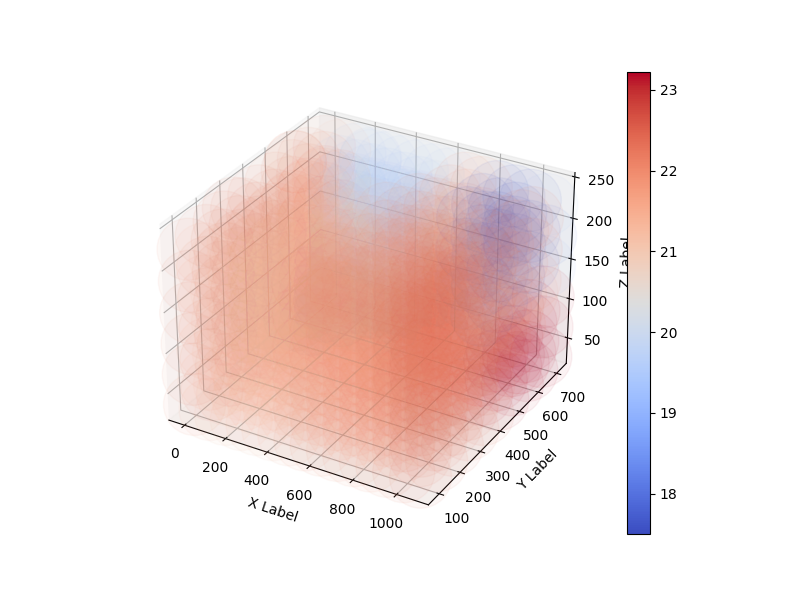
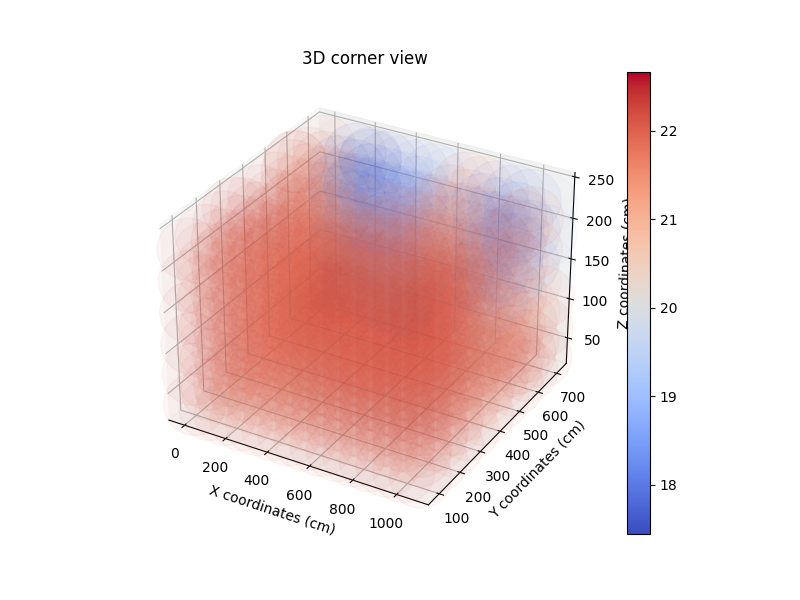
adding 2d heatmap

diff --git a/templates/heatmap.html b/templates/heatmap.html
@@ -9,6 +9,7 @@
 {% block section1content %}
 <div>
     <img src="../static/assets/img/3dHeatmap.png" class="3dHeatmap">
+    <img src="../static/assets/img/2dHeatmap.png" class="2dHeatmap">
 </div>
 
 {% endblock %}

diff --git a/heatmap_creation.py b/heatmap_creation.py
@@ -11,6 +11,7 @@ from mpl_toolkits.mplot3d import Axes3D
 import matplotlib.pyplot as plt
 from datetime import datetime
 import io
+from PIL import Image
 
 
 client = InfluxDBClient(url=influx_url, token=token, org=org)
@@ -72,19 +73,22 @@ def estimatedTemp(x,y,z,power):
     temp = 0
     sum_distance=0
     for i in range(len(df_sensors)):
-        distance = computeDistance(df_sensors.iloc[i,1],df_sensors.iloc[i,2],df_sensors.iloc[i,3], x,y,z)
+        if z !=None :
+            distance = computeDistance(df_sensors.iloc[i,1],df_sensors.iloc[i,2],df_sensors.iloc[i,3], x,y,z)
+        else :
+            distance=computeDistance(df_sensors.iloc[i,1],df_sensors.iloc[i,2],0,x,y,0)
         temp+=pow(1/distance,power) * df_sensors.iloc[i,4]
         sum_distance+=pow(1/distance,power)
-
 
     point_temperature = temp/sum_distance
     return point_temperature
 
 def format_date(td):
     return f'{td.days}d{td.seconds//3600}h{(td.seconds//60)%60}m{td.seconds % 60}s'
+
 #Generate points between sensors to complete the heatmap
 #These points are generated at regular intervals
-def generatesPoints(npoints):
+def generatesPoints3D(npoints):
     df_heatmap=df_sensors.copy()
 
     volume = (max_x -min_x)*(max_y - min_y)*(max_z-min_z)
@@ -93,7 +97,7 @@ def generatesPoints(npoints):
     for x in range(min_x,max_x,interval):
         for y in range(min_y, max_y,interval):
             for z in range(min_z,max_z,int(interval/2)):
-                df_heatmap=df_heatmap.append({"name_sensor":"generated_point","x":x,"y":y,"z":z,"temperature":estimatedTemp(x,y,z,15)}, ignore_index=True)
+                df_heatmap=df_heatmap.append({"name_sensor":"generated_point","x":x,"y":y,"z":z,"temperature":estimatedTemp(x,y,z,10)}, ignore_index=True)
 
 
     return df_heatmap
@@ -113,6 +117,32 @@ max_z=int(df_sensors["z"].max())
 def randrange(n, vmin, vmax):
     return (vmax-vmin)*np.random.rand(n) + vmin
 
+def heatmap_2D(nbpoints):
+    x,y=np.meshgrid(np.linspace(min_x,max_x,int(nbpoints**0.5)),np.linspace(min_y,max_y,int(nbpoints**0.5)))
+    temp=estimatedTemp(x,y,None,4)
+    temp_min, temp_max = -np.abs(temp).max(), np.abs(temp).max()
+
+    img=Image.open("./IMAGES/floor plan.png")
+
+    img=img.resize((int(max_x),int(max_y)),Image.ANTIALIAS)
+    fig, ax = plt.subplots()
+
+    c = ax.pcolormesh(x, y, temp, cmap='coolwarm', alpha=0.5)
+    ax.set_title('2D Top view')
+    # set the limits of the plot to the limits of the data
+    ax.axis([x.min(), x.max(), y.min(), y.max()])
+    fig.colorbar(c, ax=ax)
+    ax.imshow(img)
+    ax.set_xlabel('X coordinates (cm)')
+    ax.set_ylabel('Y coordinates (cm)')
+
+    plt.savefig('./static/assets/img/2dHeatmap.png')
+
+    img=Image.open("./static/assets/img/2dHeatmap.png")
+    img=img.resize((800,600),Image.ANTIALIAS)
+    img.save("./static/assets/img/2dHeatmap.png")
+
+
 def heatmap_3D(df):
     fig = plt.figure(figsize=(8,6))
 
@@ -123,7 +153,7 @@ def heatmap_3D(df):
     ys = df["y"].tolist()
     zs = df["z"].tolist()
     temperature= df["temperature"].tolist()
-    temperature2 =list(map(lambda x : x-2, temperature))
+
 
     colors = cm.coolwarm((np.asarray(temperature)-min(temperature))/((max(temperature)-min(temperature))))
     yg = ax.scatter(xs, ys, zs, c=colors, marker='o', alpha=0.05, s=2000)
@@ -133,12 +163,11 @@ def heatmap_3D(df):
 
     cb = fig.colorbar(colmap)
 
-    ax.set_xlabel('X Label')
-    ax.set_ylabel('Y Label')
-    ax.set_zlabel('Z Label')
 
-
-
+    ax.set_xlabel('X coordinates (cm)')
+    ax.set_ylabel('Y coordinates (cm)')
+    ax.set_zlabel('Z coordinates (cm)')
+    ax.set_title('3D corner view')
     plt.savefig('./static/assets/img/3dHeatmap.png')
     """
     plt.show()
@@ -151,14 +180,11 @@ def heatmap_3D(df):
 
 
 def get_heatmap():
-    df_heatmap=generatesPoints(300)
-    print(df_heatmap.head(30))
-    print("test :",df_heatmap.iloc[7,4])
-    return heatmap_3D(df_heatmap)
+    heatmap_3D(generatesPoints3D(300))
+    heatmap_2D(100000)
 
 
 
-"""
+
 if __name__=="__main__":
-    print(heatmap_creation())
-"""
+    get_heatmap()
